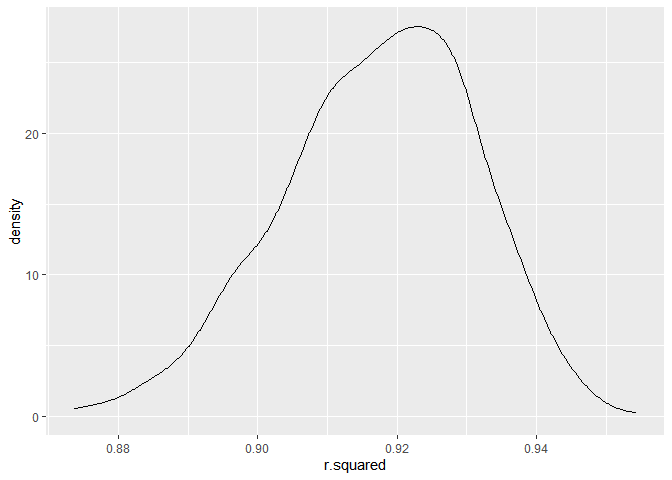
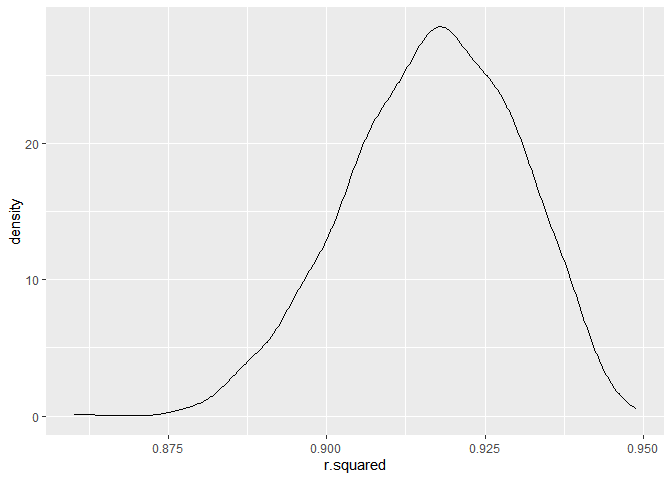
Finished code for p2

diff --git a/p8105_hw6_msk2265.md b/p8105_hw6_msk2265.md
@@ -79,9 +79,33 @@ boot_df %>%
   ggplot(aes(x = logbetas)) +geom_density()
 ```
 
-    ## Warning: Removed 678 rows containing non-finite values (`stat_density()`).
+    ## Warning: Removed 679 rows containing non-finite values (`stat_density()`).
 
 ![](p8105_hw6_msk2265_files/figure-gfm/unnamed-chunk-6-1.png)<!-- -->
+
+``` r
+boot_df %>% 
+  summarise(med=median(r.squared),
+            lowerqt=quantile(r.squared, 0.025),
+            upperqt=quantile(r.squared, 0.975))
+```
+
+    ## # A tibble: 1 × 3
+    ##     med lowerqt upperqt
+    ##   <dbl>   <dbl>   <dbl>
+    ## 1 0.917   0.889   0.939
+
+``` r
+boot_df %>% 
+  summarise(med=median(logbetas, na.rm=TRUE),
+            lowerqt=quantile(logbetas, 0.025, na.rm=TRUE),
+            upperqt=quantile(logbetas, 0.975, na.rm=TRUE))
+```
+
+    ## # A tibble: 1 × 3
+    ##     med lowerqt upperqt
+    ##   <dbl>   <dbl>   <dbl>
+    ## 1 -5.86   -8.68   -4.54
 
 Plot the distribution of your estimates, and describe these in words.
 Using the 5000 bootstrap estimates, identify the 2.5% and 97.5%
